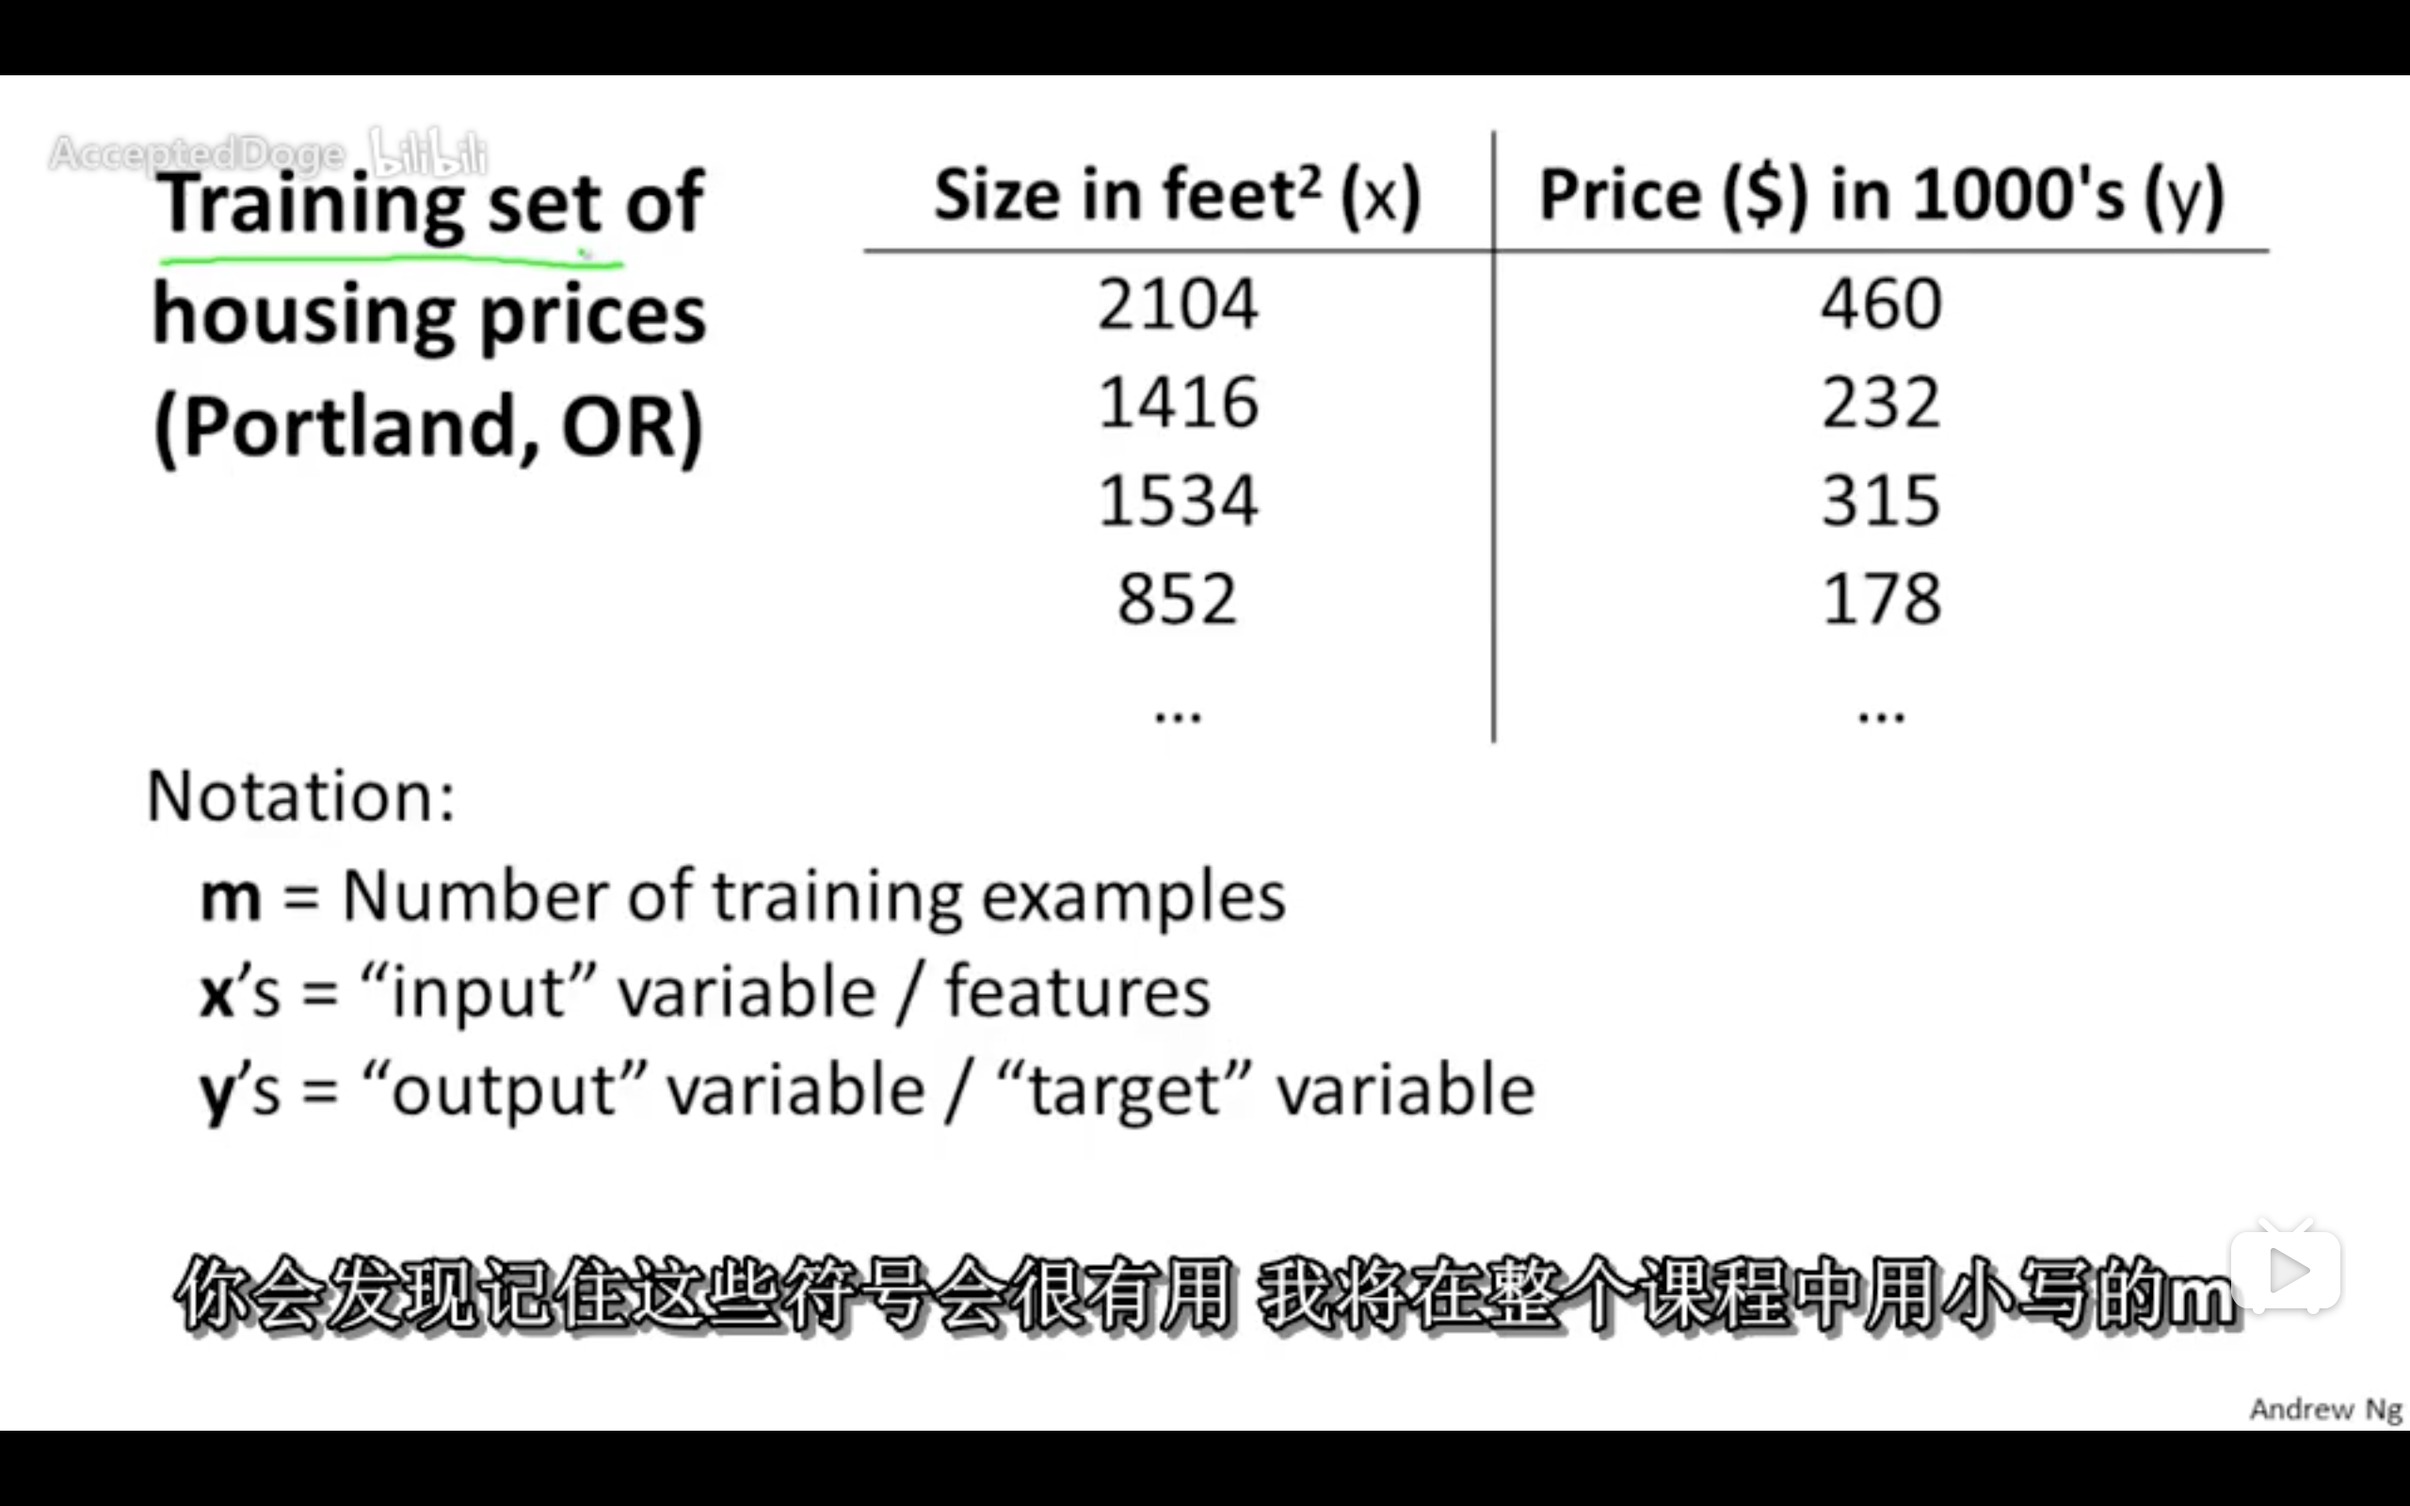
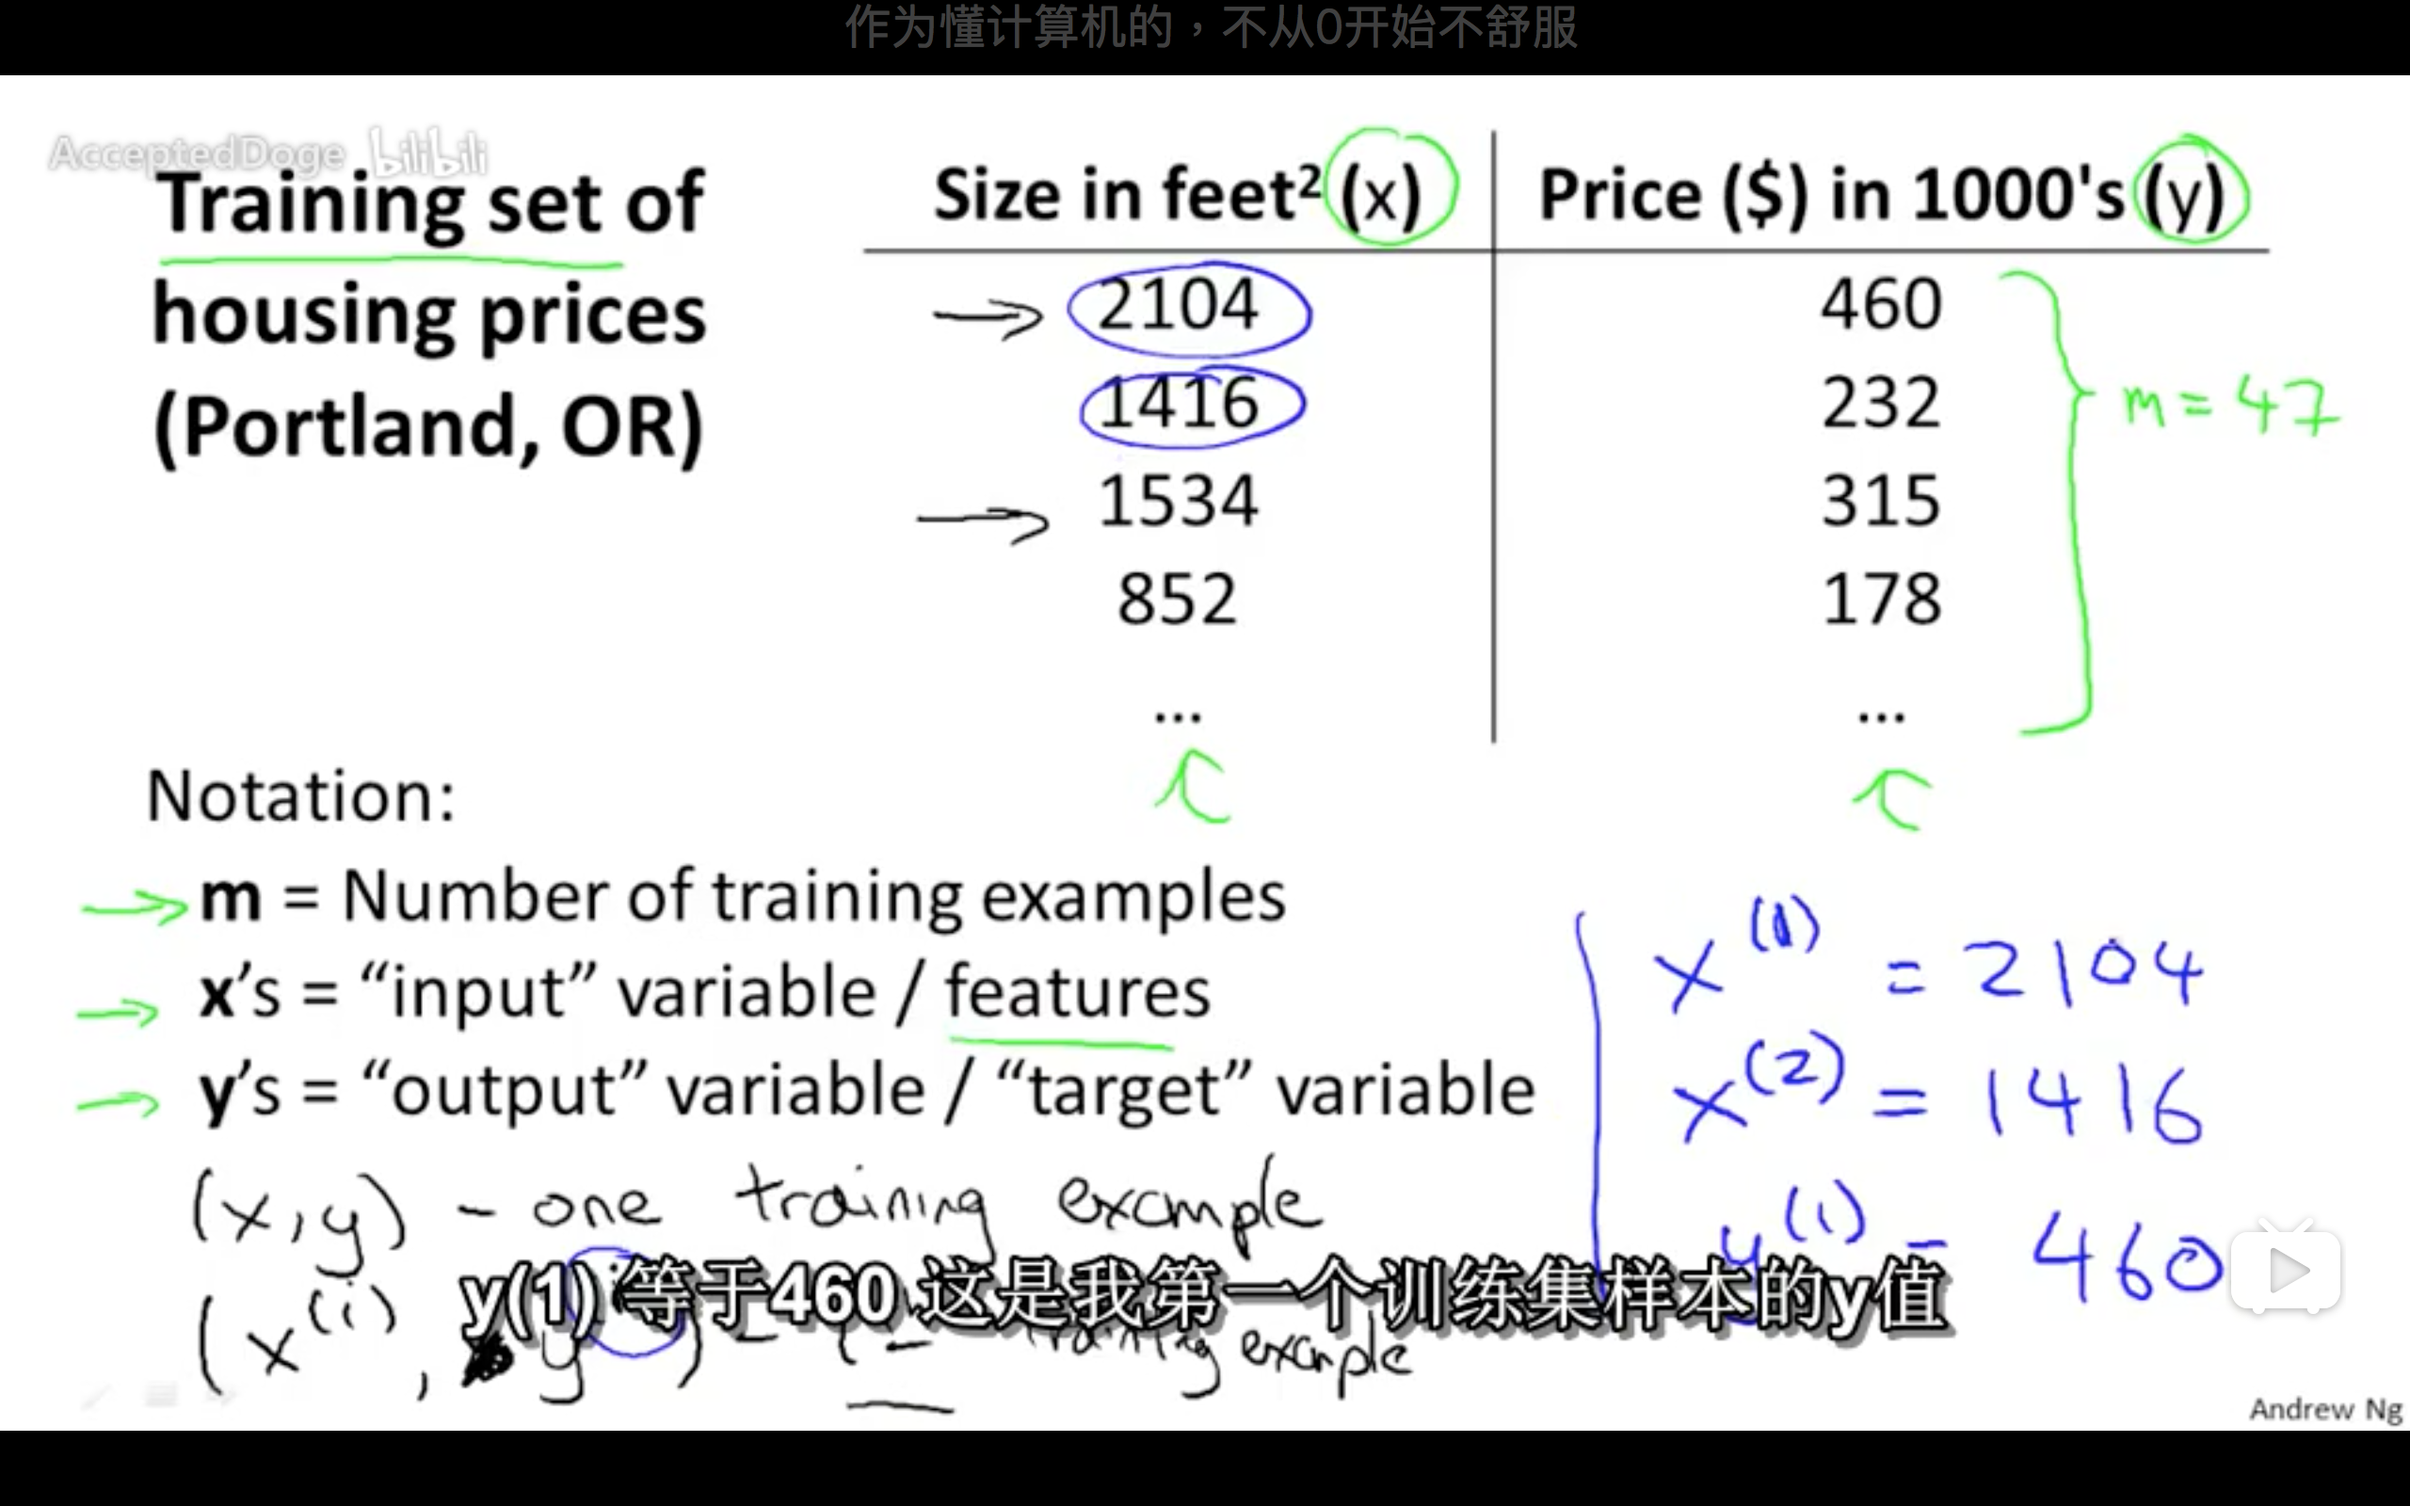
Update

diff --git a/Machine Learning by Andrew Ng/Machine Learning by Andrew Ng.md b/Machine Learning by Andrew Ng/Machine Learning by Andrew Ng.md
@@ -1,4 +1,4 @@
-##机器学习 Machine Learning by Andrew Ng
+#机器学习 Machine Learning by Andrew Ng
 
 
 
@@ -6,11 +6,13 @@ Notes by Allen Cee
 
 
 
-##Lecture 01 Introduction
+##Lecture 01 机器学习简介
 
 
 
-**机器学习算法 Machine learning algorithms**
+####机器学习算法 Machine learning algorithms
+
+**常见算法**
 
 - Supervised learning 监督学习
 - Unsupervised learning 无监督学习
@@ -26,15 +28,15 @@ Notes by Allen Cee
 
 1. 监督学习：已知部分数据集，给出算法，预测新数据
 
-2. 回归问题 Regression Problem：监督学习的一种，预测连续值 continuous values（如房价、股价）[Fig 01-01]
+   1. 回归问题 Regression Problem：监督学习的一种，预测连续值 continuous values（如房价、股价）[Fig 01-01]
 
-   ![01-01](01-01.png)
+      ![01-01](01-01.png)
 
-3. 分类问题 Classification Problem：监督学习的一种，预测离散值输出 discrete valued ouput（如肿瘤性质） [Fig 01-02] & [Fig 01-02]
+   2. 分类问题 Classification Problem：监督学习的一种，预测离散值输出 discrete valued ouput（如肿瘤性质） [Fig 01-02] & [Fig 01-03]
 
-   ![01-02](01-02.png)
+      ![01-02](01-02.png)
 
-   ![01-03](01-03.png)
+      ![01-03](01-03.png)
 
 
 * 学习算法能够处理无穷多的属性（支持向量机 Support Vector）
@@ -45,9 +47,9 @@ Notes by Allen Cee
 
 1. 无监督学习：数据集中所有数据是一样的、没有属性，通过算法，找到某种结构（如谷歌新闻分类、特定基因判定）【个人感觉和主成分分析、因子正则化比较像】
 
-2. 聚类 Cluster：无监督学习的一种，具体定义还不清楚，将无属性数据通过算法分出不同属性的类（如社交网络分析、市场分割、星体分类等）
+   1. 聚类 Cluster：无监督学习的一种，具体定义还不清楚，将无属性数据通过算法分出不同属性的类（如社交网络分析、市场分割、星体分类等）[Fig 01-04]
 
-   ![01-04](01-04.png)
+      ![01-04](01-04.png)
 
 
 * 鸡尾酒宴会问题 Cocktail Party Problem：不同音源如何区分；有鸡尾酒算法
@@ -55,7 +57,11 @@ Notes by Allen Cee
 
 
 
-####模型 Model
+##Lecture 02 模型基础
+
+
+
+####模型表示 Model Representation
 
 [Eg 01-01: Housing Prices] & [Fig 01-05]
 
@@ -66,4 +72,23 @@ Notes by Allen Cee
 * 训练集 Training Set：监督学习中已知的数据集 [Fig 01-06]
 
   ![01-06](01-06.png)
+
+
+
+**机器学习中常见表示**
+
+* $m$：训练集样本数量
+
+* $x^{(i)}$：训练集第$i$行的$x$的值
+
+* $y^{(i)}$：训练集第$i$行的$y$的值
+
+* $h_{\theta}/h$：假设函数（$x\to y$的映射）
+
+* $\theta_i$：模型参数
+
+  ![01-07](01-07.png) 
+
+
+#### 成本函数 Cost Function
 
